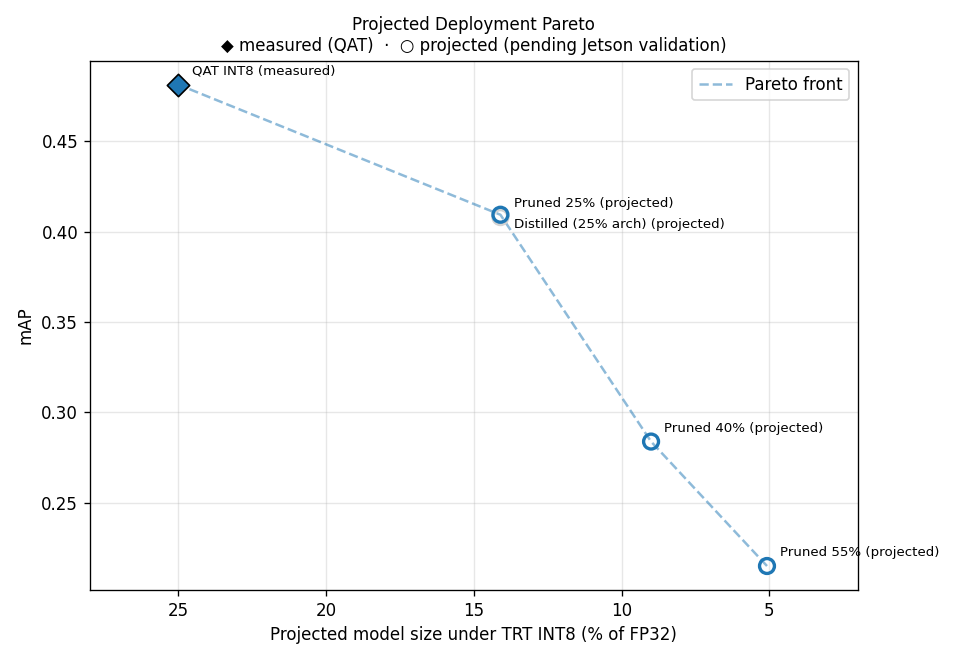
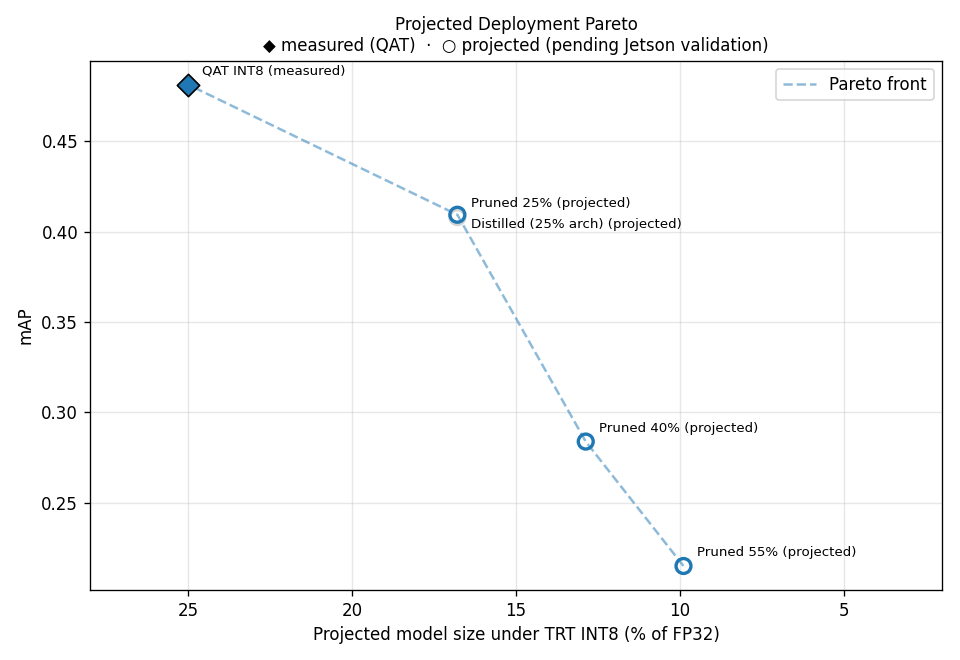
compression model ONNX export docs update

diff --git a/compression/pareto.py b/compression/pareto.py
@@ -50,19 +50,31 @@ PARETO_DIR.mkdir(parents=True, exist_ok=True)
 INT8_SIZE_FACTOR = 0.25
 
 # Measured results — see compression/README.md for full derivation of each.
+#
+# full_model_pct: measured from exported backbone_neck_head ONNX file sizes
+# (compression/results/onnx_export/*/pts_backbone_neck_head_centerpoint_*.onnx),
+# as % of the FP32 baseline's 23,950,609 bytes. This is HIGHER than
+# params_pct (backbone+neck channel ratio, e.g. 56.4% for Pruned 25%) because
+# task_heads (~1.1-1.5M params) are untouched by pruning — fixed overhead
+# that becomes a larger fraction of the total as backbone+neck shrinks.
+# params_pct reflects the pruning RATIO chosen (architecture Pareto);
+# full_model_pct reflects actual DEPLOYED size (deployment Pareto).
+#   Pruned 25% / Distilled: 16,083,947 bytes -> 67.15%
+#   Pruned 40%:             12,329,623 bytes -> 51.48%
+#   Pruned 55%:              9,472,899 bytes -> 39.55%
 VARIANTS = [
     {'name': 'FP32 baseline', 'mAP': 0.4815, 'NDS': 0.5922,
-     'params_pct': 100.0, 'precision': 'FP32'},
+     'params_pct': 100.0, 'full_model_pct': 100.0, 'precision': 'FP32'},
     {'name': 'PTQ INT8', 'mAP': 0.4812, 'NDS': 0.5903,
-     'params_pct': 100.0, 'precision': 'INT8'},
+     'params_pct': 100.0, 'full_model_pct': 100.0, 'precision': 'INT8'},
     {'name': 'QAT INT8', 'mAP': 0.4814, 'NDS': 0.5910,
-     'params_pct': 100.0, 'precision': 'INT8'},
+     'params_pct': 100.0, 'full_model_pct': 100.0, 'precision': 'INT8'},
     {'name': 'Pruned 25%', 'mAP': 0.4081, 'NDS': 0.5382,
-     'params_pct': 56.4, 'precision': 'FP32'},
+     'params_pct': 56.4, 'full_model_pct': 67.15, 'precision': 'FP32'},
     {'name': 'Pruned 40%', 'mAP': 0.2838, 'NDS': 0.3902,
-     'params_pct': 36.0, 'precision': 'FP32'},
+     'params_pct': 36.0, 'full_model_pct': 51.48, 'precision': 'FP32'},
     {'name': 'Pruned 55%', 'mAP': 0.2149, 'NDS': 0.3136,
-     'params_pct': 20.3, 'precision': 'FP32'},
+     'params_pct': 20.3, 'full_model_pct': 39.55, 'precision': 'FP32'},
 ]
 
 
@@ -78,7 +90,7 @@ def load_distillation_result() -> None:
     VARIANTS.append({
         'name': 'Distilled (25% arch)',
         'mAP': d['mAP'], 'NDS': d['NDS'],
-        'params_pct': 56.4, 'precision': 'FP32',
+        'params_pct': 56.4, 'full_model_pct': 67.15, 'precision': 'FP32',
     })
     print(f'[pareto] Distillation result loaded: mAP {d["mAP"]:.4f}  NDS {d["NDS"]:.4f}')
 
@@ -158,13 +170,13 @@ def plot_deployment_pareto(variants: list) -> list:
         if v['name'] == 'QAT INT8':
             points.append({
                 **v,
-                'size_pct': v['params_pct'] * INT8_SIZE_FACTOR,
+                'size_pct': v['full_model_pct'] * INT8_SIZE_FACTOR,
                 'projected': False,
             })
         elif v['precision'] == 'FP32' and v['name'] != 'FP32 baseline':
             points.append({
                 **v,
-                'size_pct': v['params_pct'] * INT8_SIZE_FACTOR,
+                'size_pct': v['full_model_pct'] * INT8_SIZE_FACTOR,
                 'projected': True,
             })
     # FP32 baseline and PTQ excluded: FP32 isn't INT8, and PTQ is dominated
@@ -176,7 +188,7 @@ def plot_deployment_pareto(variants: list) -> list:
     fig, ax = plt.subplots(figsize=(8, 5.5))
     # Points within this (size_pct, mAP) distance get vertically-stacked
     # label offsets to avoid overlap (e.g. Pruned 25% and Distilled sit at
-    # nearly the same projected point, ~14.1% / ~0.408-0.409).
+    # nearly the same projected point, ~16.8% / ~0.408-0.409).
     placed = []
     for p in points:
         marker = 'D' if not p['projected'] else 'o'

diff --git a/compression/README.md b/compression/README.md
@@ -668,25 +668,42 @@ Compression
 
 `pareto.py` assembles all 7 variants (FP32, PTQ/QAT-INT8, Pruned 25/40/55%, Distilled) into
 two charts: an architecture Pareto (params vs mAP/NDS, all measured) and a projected
-deployment Pareto (size under TRT INT8, assuming the validated near-free INT8 factor
-extends to pruned architectures). Distilled and Pruned 25% land at effectively the same
-point (14.1% projected size, ~0.408-0.409 mAP) — distillation didn't shift the front.
+deployment Pareto (full-model size under TRT INT8, measured from exported ONNX file
+sizes × the validated near-free INT8 factor). Distilled and Pruned 25% land at
+effectively the same point (16.8% projected size, ~0.408-0.409 mAP, identical ONNX
+size: 16,083,947 bytes) — distillation didn't shift the front.
 
 ![Architecture Pareto](results/pareto/architecture_pareto.png)
 
 ![Projected Deployment Pareto](results/pareto/deployment_pareto.png)
 
-**Next phase — Jetson deployment.** Deployment candidates from the projected Pareto:
+**ONNX export complete** for all 5 variants (`compression/results/onnx_export/`),
+using `--synthetic-input` mode (no `/data/nuscenes/` extraction needed — random points
+within `point_cloud_range` are sufficient for tracing). Measured backbone+neck+head
+ONNX sizes:
 
-| Variant              | Projected size | mAP    | Status                         |
-| -------------------- | -------------- | ------ | ------------------------------ |
-| QAT INT8 (full arch) | 25.0%          | 0.4814 | measured (A40 FakeQuantize)    |
-| Pruned 25% FP32      | 14.1%          | 0.4081 | projected — validate on Jetson |
-| Pruned 40% FP32      | 9.0%           | 0.2838 | projected — validate on Jetson |
-| Pruned 55% FP32      | 5.1%           | 0.2149 | projected — validate on Jetson |
+| Variant                    | ONNX size (bytes) | % of FP32 | params_pct (backbone+neck) |
+| -------------------------- | ----------------- | --------- | -------------------------- |
+| FP32 baseline              | 23,950,609        | 100.0%    | 100.0%                     |
+| Pruned 25% / Distilled 25% | 16,083,947        | 67.2%     | 56.4%                      |
+| Pruned 40%                 | 12,329,623        | 51.5%     | 36.0%                      |
+| Pruned 55%                 | 9,472,899         | 39.6%     | 20.3%                      |
 
-Export FP32 baseline and `pruned_model_25_recalib.pt`/`pruned_model_40.pt`/
-`pruned_model_55.pt` to ONNX (requires adapting `export_onnx.py` to load pruned full
-model objects via `torch.load()` instead of `init_model(cfg, checkpoint)` — architecture
-differs from `cfg`), then build TRT INT8 engines using `jetson_calib` (512 samples) and
-benchmark mAP/latency/power on Jetson Orin Nano.
+Full-model % > backbone+neck params_pct in every case — `task_heads` (~1.1-1.5M
+params, fixed) become a larger fraction of the total as backbone+neck shrinks.
+Projected deployment sizes (full-model % × 0.25 INT8 factor) used in the deployment
+Pareto chart above:
+
+| Variant                    | Projected size | mAP             | Status                         |
+| -------------------------- | -------------- | --------------- | ------------------------------ |
+| QAT INT8 (full arch)       | 25.0%          | 0.4814          | measured (A40 FakeQuantize)    |
+| Pruned 25% / Distilled 25% | 16.8%          | 0.4081 / 0.4094 | projected — validate on Jetson |
+| Pruned 40%                 | 12.9%          | 0.2838          | projected — validate on Jetson |
+| Pruned 55%                 | 9.9%           | 0.2149          | projected — validate on Jetson |
+
+**Next phase — Jetson deployment.** Build TRT INT8 engines from the exported ONNX
+files using `jetson_calib` (512 samples), then benchmark mAP/latency/power on Jetson
+Orin Nano. The two practical candidates are FP32-baseline→TRT-INT8 and
+Pruned25→TRT-INT8 (see root README Pareto Candidates section); Pruned 40/55% and
+Distilled 25% ONNX are exported for Pareto completeness but unlikely to be the final
+recommendation given their accuracy levels.

diff --git a/README.md b/README.md
@@ -125,8 +125,16 @@ architectures, pending Jetson validation).
 | Pruned 40%                 | 0.2838          | 9.0%                      | projected                   | TBD     | TBD   |
 | Pruned 55%                 | 0.2149          | 5.1%                      | projected                   | TBD     | TBD   |
 
-Pruned 25% and Distilled land at effectively the same point (14.1% size, ~0.408-0.409
-mAP) — distillation didn't shift the Pareto front (see Compression Sweep note above).
+ONNX export complete for all 5 variants (`compression/results/onnx_export/`). Projected
+sizes use the _full backbone+neck+head_ ONNX size (23.95MB FP32 baseline → 16.08/12.33/
+9.47MB for Pruned 25/40/55%, i.e. 67.2%/51.5%/39.6% of FP32), not the backbone+neck-only
+params ratio (56.4%/36.0%/20.3%) — `task_heads` (~1.1-1.5M params) are untouched by
+pruning, so they become a larger fraction of the total as backbone+neck shrinks. The
+gap to QAT-INT8 (25%) is narrower than the channel-ratio alone would suggest.
+
+Pruned 25% and Distilled land at effectively the same point (16.8% size, ~0.408-0.409
+mAP, exact same ONNX size: 16,083,947 bytes both) — distillation didn't shift the
+Pareto front (see Compression Sweep note above).
 
 INT8 quantization shown near-free for the unpruned architecture (PTQ 0.4812 / QAT
 0.4814 vs FP32 0.4815). Pruned architectures retain BatchNorm after every conv (the